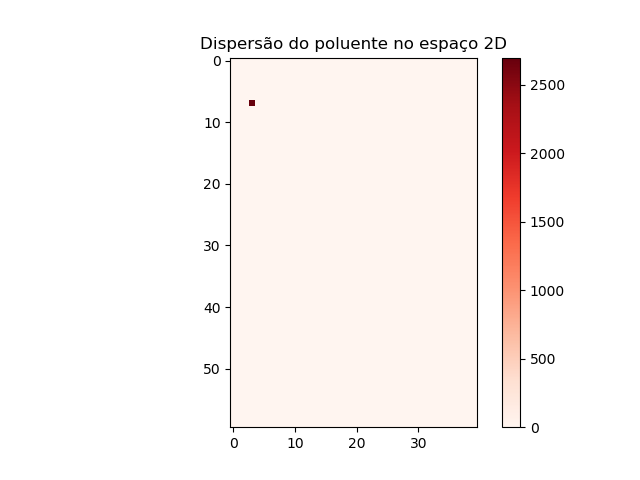
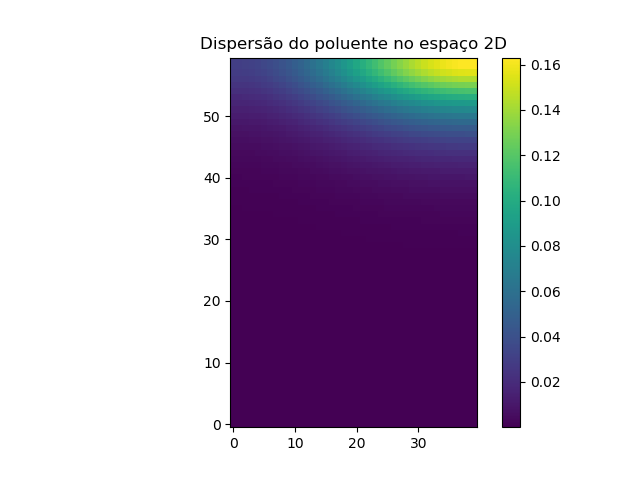
eh iss

diff --git a/burgers.py b/burgers.py
@@ -27,31 +27,30 @@ class Mcdonalds(object):
     def DiferencaCentralY(self, Cmenos1, Cmais1, atual):
         return (Cmais1 + Cmenos1 - 2*atual) / self.dy2
 
-    def DiferencaAdiantadaXY(self, Cxymais1, Cxyatual, a):
-        if (a == 0):
-            # Caso X
-            return (Cxymais1 - Cxyatual)/ (2*self.dx)
-        else:
-            # Caso y
-            return (Cxymais1 - Cxyatual)/ (2*self.dx)
-        
+    def DiferencaAdiantadaX(self, Cxmais1, Cxmenos1):
+        return (Cxmais1 - Cxmenos1)/ (2*self.dx)
+
+    def DiferencaAdiantadaY(self, Cymais1, Cymenos1):
+        return (Cymais1 - Cymenos1)/ (2*self.dy)
+
     def newC(self, d2Cx, d2Cy, dCx, dCy, atual, v):
-        return self.dt * ((self.Q_ponto / (self.dx * self.dy)) + self.K * (d2Cx + d2Cy) - self.alpha*dCx - v * dCy ) + atual
+        return self.dt * (self.K * (d2Cx + d2Cy) - self.alpha * dCx - v * dCy ) + atual
 
     def CalcV(self, x):
-        return self.alpha * sin(pi/5 * x)
-        
+        return self.alpha * sin((pi/5)*x)
+
     def passo(self, matrix):
         copy = np.copy(matrix)
         for i in range(1, matrix.shape[0]-1):
             for j in range(1,matrix.shape[1]-1):
                 v = self.CalcV(i)
+                # v = 0
                 u = self.alpha
                 atual = matrix[i][j]
-                d2Cx = self.DiferencaCentralX(matrix[i + 1][j], matrix[i - 1][j], atual)
+                d2Cx = self.DiferencaCentralX(matrix[i - 1][j], matrix[i + 1][j], atual)
                 d2Cy = self.DiferencaCentralY(matrix[i][j + 1], matrix[i][j - 1], atual)
-                dCy = self.DiferencaAdiantadaXY(1, atual, 1)
-                dCx = self.DiferencaAdiantadaXY(1, atual, 0)
+                dCx = self.DiferencaAdiantadaX(matrix[i + 1][j], matrix[i - 1][j])
+                dCy = self.DiferencaAdiantadaY(matrix[i][j - 1], matrix[i][j + 1])
                 nova_c = self.newC(d2Cx, d2Cy, dCx, dCy, atual, v)
                 if nova_c < 0:
                     nova_c = 0
@@ -69,11 +68,12 @@ class Mcdonalds(object):
         return copy
 
     def solve(self, matrix, tMax, a, b, Tdespejo, qc):
-        list_t = np.arange(0, tMax, self.dt)
+        list_t = np.arange(0, tMax + 0 * self.dt, self.dt)
         for t in list_t:
             matrix = self.passo(matrix)
             if t < Tdespejo:
-                matrix[a][b] += qc
+                matrix[a][b] += qc * self.dt
+            # self.plotColorMap(matrix, k)
         return matrix
 
     def parserText(self, matriz):
@@ -86,54 +86,67 @@ class Mcdonalds(object):
         with open("saida.txt", "w") as txt:
             txt.write(str(stringF))
 
+
     def plotColorMap(self, matrix):
         color_map = plt.imshow(matrix)
-        color_map.set_cmap("Reds")
+        color_map.set_cmap("viridis")
         plt.title("Dispersão do poluente no espaço 2D")
         plt.colorbar()
-        plt.savefig("grafico_colormap.png")
+        plt.gca().invert_yaxis()
+        plt.plot(a, b, "ro")
+        
+        plt.savefig("grafico_colormap1.png")
+        plt.show()
+    
 
 # grupo 11
-# dx = 0.5
-# dy = 0.5
-# dimensions = [30, 20]
-# dt = 0.05 #s
-# alpha = 1
-# k  = 1 # m^2/s
-# Q_ponto = 100 # kg/ms
-# qc = Q_ponto / (dx * dy)
-# Tderramamento = 3 #s
-
-# tMax = 10*Tderramamento # s
-
-# n = 11
-# a = int(n / 1.4)
-# b = int(60 / (n + 5))
-
-# grupo 5
 dx = 0.5
 dy = 0.5
-dimensions = [30, 30]
+dimensions = [30, 20]
 dt = 0.05 #s
 alpha = 1
 k  = 1 # m^2/s
-Q_ponto = 80 # kg/ms
+Q_ponto = 100 # kg/ms
 qc = Q_ponto / (dx * dy)
-Tderramamento = 2 #s
-u = 1
-v = 0
+Tderramamento = 3 #s
 
-tMax = 5 # s
+tMax = 10*Tderramamento # s
 
-a = 15
-b = 15
+n = 11
+a = int(n / 1.4 / dx) 
+b = int(60 / (n + 5) / dy) 
+
+def checkConvergencia(K, dt, dx):
+    if((dt/(dx**2)) < (1/(4*K))):
+        print("Converge, bola que segue")
+    else:
+        print("Nao converge, azedo")
+
+# # grupo 5
+# dx = 0.5
+# dy = 0.5
+# dimensions = [30, 30]
+# dt = 0.05 #s
+# alpha = 1
+# k  = 1 # m^2/s
+# Q_ponto = 80 # kg/ms
+# qc = Q_ponto / (dx * dy)
+# Tderramamento = 2 #s
+# u = 1
+# v = 0
+# tMax = 5 # s
+# a = int(15 / dx)
+# b = int(15 / dy)
+
+checkConvergencia(k, dt, dx)
+
 
 xtudo = Mcdonalds(dx, dy, dimensions, alpha, dt, k)
 
 matrix = xtudo.create_concentration_matrix()
 
 solved = xtudo.solve(matrix, tMax, a, b, Tderramamento, qc)
-print(matrix[40][40])
+# print(round(solved[40][40], 3))
 
 xtudo.parserText(solved)
 xtudo.plotColorMap(solved)
